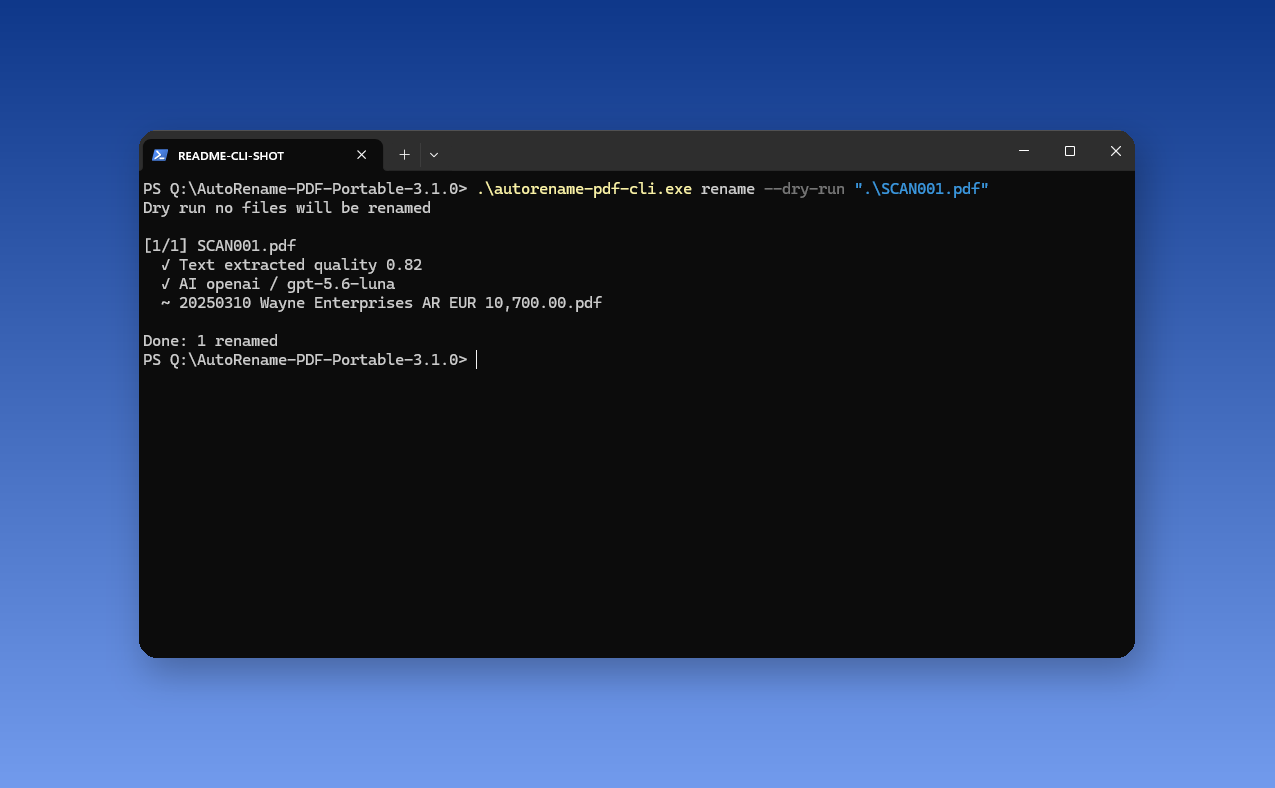
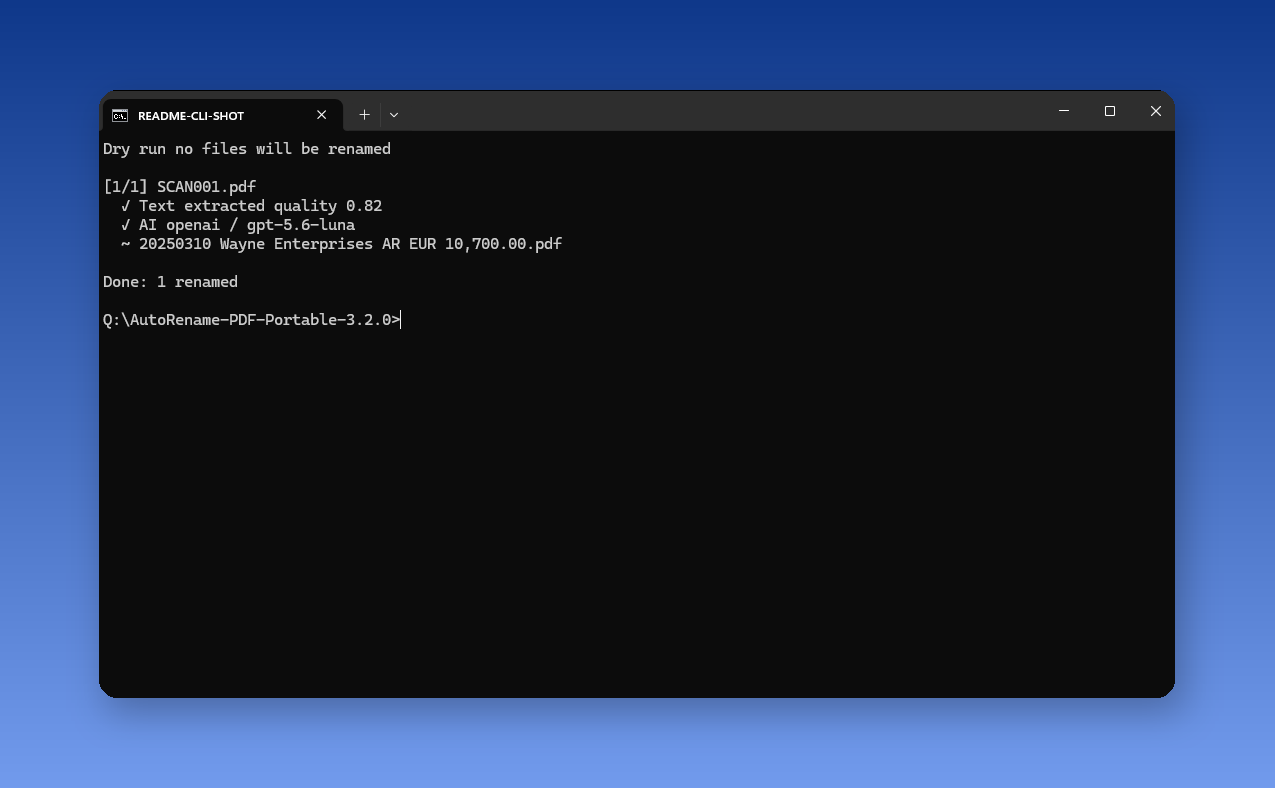
Bump version to 3.2.0
Tag the GUI visual system, example recipes, and shorter README as a minor release.

Changed region(s): [[0.0612, 0.0914, 0.9482, 0.9137]]

diff --git a/_version.py b/_version.py
@@ -1,1 +1,1 @@
-VERSION = "3.1.0"
+VERSION = "3.2.0"

diff --git a/.claude/skills/build/SKILL.md b/.claude/skills/build/SKILL.md
@@ -65,7 +65,7 @@ Helpers (do not commit `_raw/` or the throwaway capture config):
 
 - Invoice codes **AP/AR** (not ER)
 - Model **gpt-5.6-luna** (or whatever `_version.py` / `config.yaml.example` currently ship)
-- Portable folder name `AutoRename-PDF-Portable-{version}` from `_version.py` (today: 3.1.0)
+- Portable folder name `AutoRename-PDF-Portable-{version}` from `_version.py` (today: 3.2.0)
 - Light GUI theme
 - Files view after a real **Preview names** then **Rename** (two disposable text PDFs)
 - CLI: PowerShell in that portable folder with `.\autorename-pdf-cli.exe rename --dry-run …` (flags **after** `rename`)
